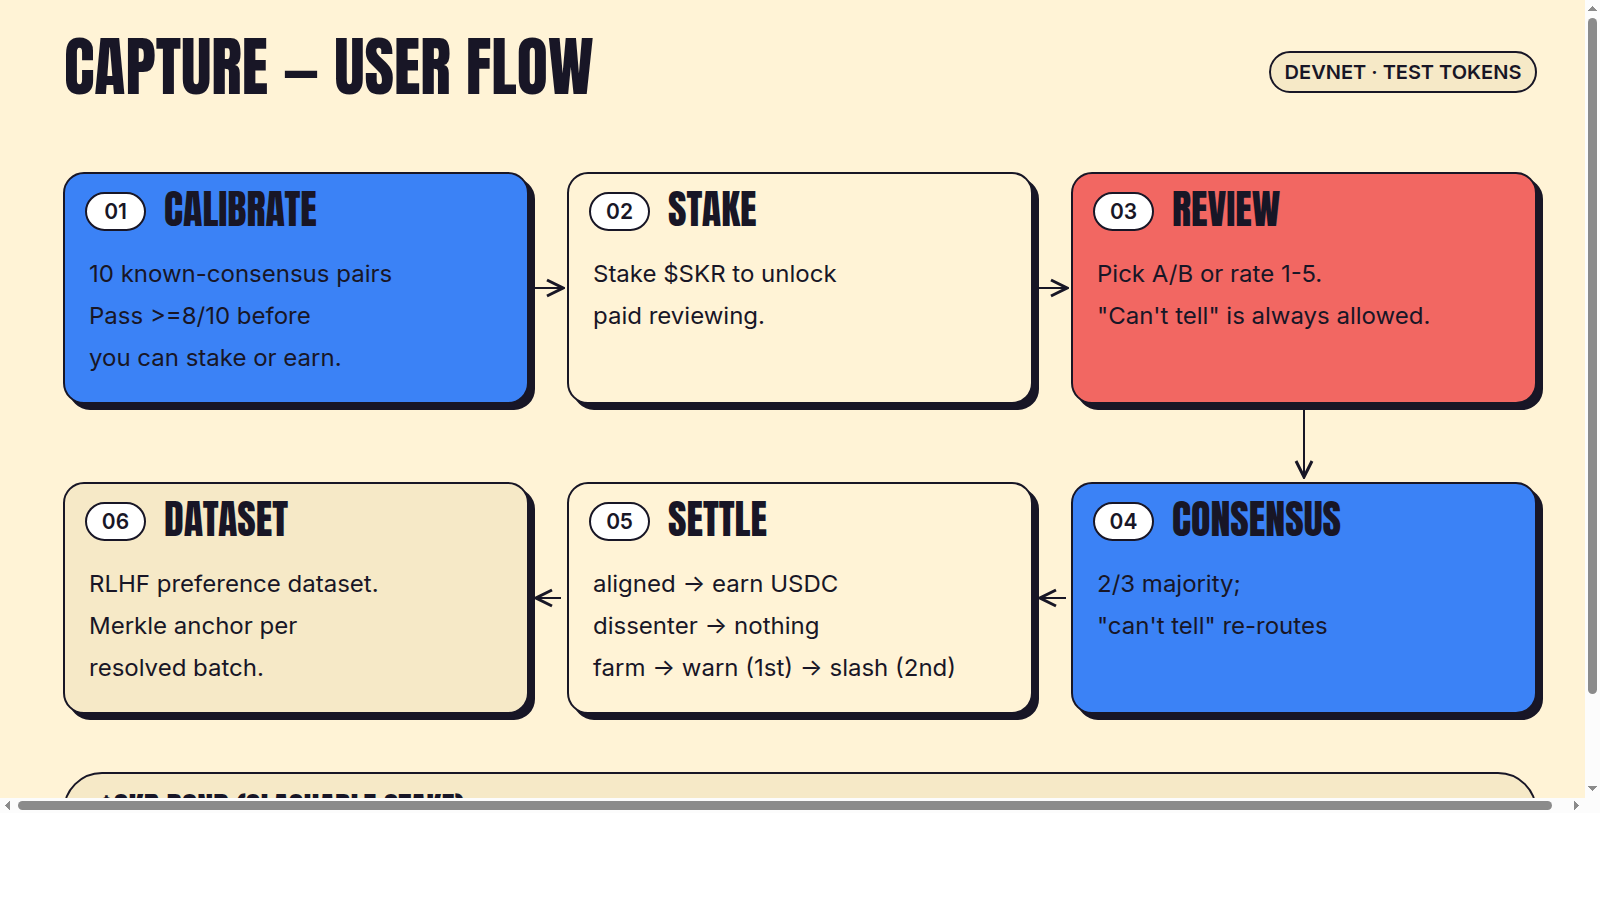
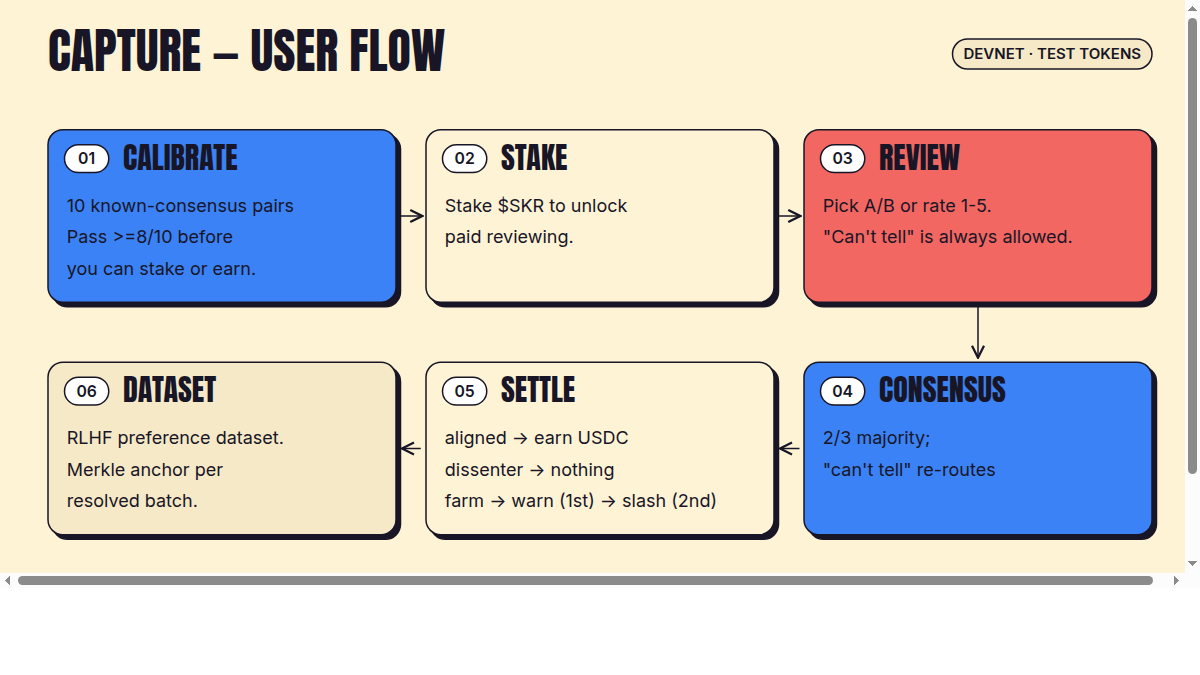
Resize architecture and user-flow diagrams to 1200x675; cap product-page diagram width

diff --git a/how-it-works.html b/how-it-works.html
@@ -77,13 +77,13 @@ footer .links a{margin-right:16px;font-weight:600;text-decoration:none}
 
   <h2>User flow</h2>
   <figure>
-    <img src="images/user-flow.png?v=2" alt="Capture user flow: onboard, stake, review, consensus, settle, dataset"/>
+    <img src="images/user-flow.png?v=3" alt="Capture user flow: onboard, stake, review, consensus, settle, dataset"/>
     <figcaption>Onboard → stake → review → consensus → settle. A Merkle anchor commits each resolved batch on-chain.</figcaption>
   </figure>
 
   <h2>Architecture</h2>
   <figure>
-    <img src="images/architecture.png?v=2" alt="Capture architecture: Android client, scoring API, Solana settlement"/>
+    <img src="images/architecture.png?v=3" alt="Capture architecture: Android client, scoring API, Solana settlement"/>
     <figcaption>Android client → scoring API (calibration, three-reviewer consensus, accuracy ladder) → Solana settlement ($SKR bond escrow, warn/slash, treasury).</figcaption>
   </figure>
 
